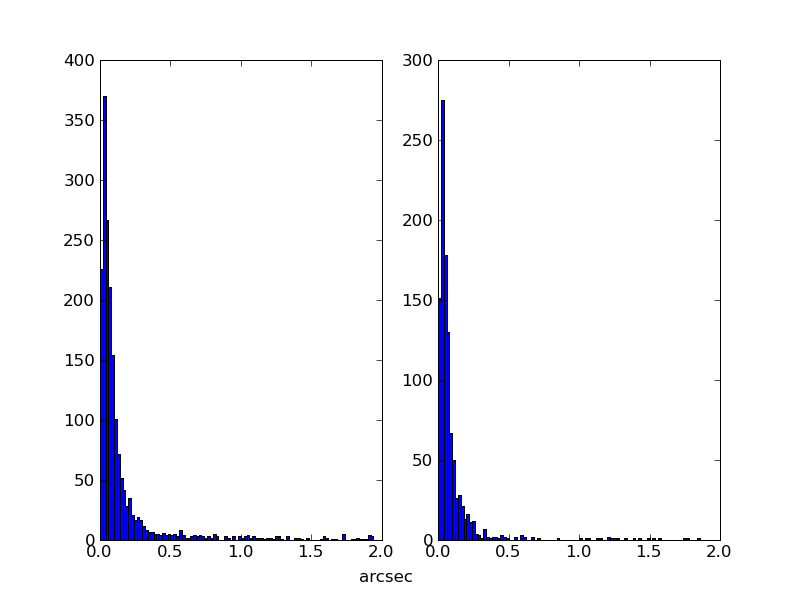
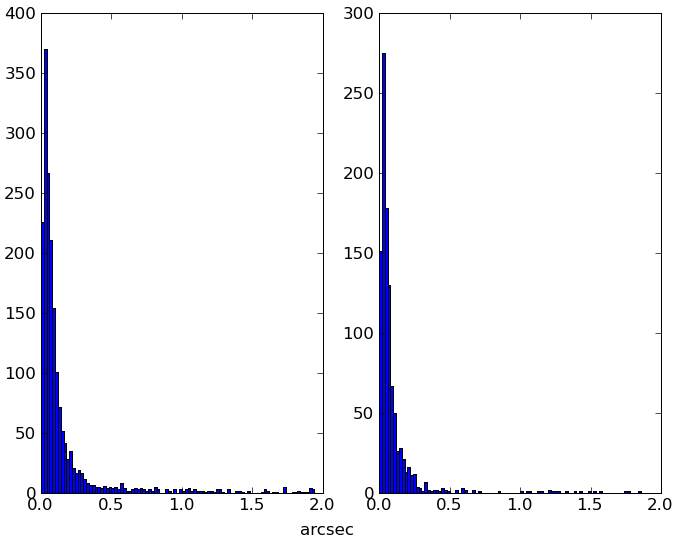
more results text; cropped some figures

diff --git a/results.tex b/results.tex
@@ -50,7 +50,7 @@ event monitor which loaded logging events into the database.
  1 &         &                    sliceInfo & 24 &\stc{FDO}& rawImageAndMetadataOutput1 \\
  2 &         &                      symLink & 25 &*\stc{S} &                       isr1 \\
  3 & \stc{FI}&                  imageInput0 & 26 &*\stc{DI}&            wcsSourcesInput \\
- 4 &*\stc{}  &               visitMetadata0 & 27 &*\stc{S} &           wcsDetermination \\
+ 4 & \stc{DI}&               visitMetadata0 & 27 &*\stc{S} &           wcsDetermination \\
  5 &         &           transformMetadata0 & 28 &*\stc{FO}&  calibratedExposuresOutput \\
  6 &         &            validateMetadata0 & 29 &*\stc{}  &           CcdMetadataStage \\
  7 & \stc{FO}&         visitMetadataOutput0 & 30 &*\stc{FI}&      templateMetadataInput \\
@@ -66,7 +66,7 @@ event monitor which loaded logging events into the database.
 17 &*\stc{S} &             psfDetermination & 40 &*\stc{}  &          sourceToDiaSource \\  
 18 & \stc{FO}&                    psfOutput & 41 &*\stc{S} &       sourceClassification \\
 19 & \stc{FI}&                  imageInput1 & 42 &*\stc{DO}&           diaSourceOutput0 \\
-20 &         &               visitMetadata1 & 43 &*\stc{DO}&           diaSourceOutput1 \\
+20 & \stc{DI}&               visitMetadata1 & 43 &*\stc{DO}&           diaSourceOutput1 \\
 21 &         &           transformMetadata1 & 44 &*\stc{}  &           associationEvent \\
 22 &         &            validateMetadata1 & 45 &*\stc{DO}&                sdqaOutput0 \\
 23 & \stc{FO}&         visitMetadataOutput1 & 46 &*\stc{DO}&                sdqaOutput1 \\
@@ -160,10 +160,7 @@ These Abe runs provided additional qualitative accomplishments:
 \noindent Additional information about the results of these runs on
 Abe can be found in section \ref{sec:timing}.  
 
-Table \ref{tbl:runsummary} summarizes the pertinent production runs
-referenced in this section.
-
-\begin{table}[hp]
+\begin{table}[htbp]
 \centering
 \caption{Summary of Production Runs analyzed in this report
 \label{tbl:runsummary}}
@@ -178,6 +175,9 @@ rlpabe041 & 12      & 288 & 3456/33 GB    & 15/2 GB        & 79368/313 GB \\ \hl
 Total     & ---     & 250 & 13748/81 GB   & 191/28 GB      & 200418/793 GB \\ \hline
 \end{tabular}
 \end{table}
+
+Table \ref{tbl:runsummary} summarizes the pertinent production runs
+referenced in this section.
 
 
 \subsection{Science Data Quality}
@@ -249,19 +249,9 @@ far more significant than is initially apparent, since it
 results from very poor wcs fits that are confined to individual
 amplifiers.
 
-For DC3a purposes, we define WCS failure for an image to occur when
-more than 50\% of the predicted WCS\_Source positions are in error by
-more than 1 arcsec.  This is roughly the level beyond which the difference
-image matching kernels can no longer compensate for image misalignments. With
-this criterion, for run rlp1233 there were 109 failures out of 2629
-images processeed, or 4\%.   For rlp1234 there were 14 failures out
-of 2509 images processed, or 0.5\%.  It must be noted however, that this criterion for WCS failure will
-need to be considerably stricter for DC3b and beyond, because
-processing of image stacks for deep detection and measurement, and the
-determination of astrometric models all require much better WCS quality.
-\begin{figure}[htb]
+\begin{figure}[p]
 \begin{center}
-\includegraphics[width=6in]{images/rlp1233_1234_match.png}
+\includegraphics[height=3.35in]{images/rlp1233_1234_match.png}
 \caption{Histogram of the distances between positions predicted from WCS, and
   true catalog positions for rlp1233/695833-e0 on the left and
   rlp1234/696554-e0 on the right}  
@@ -269,9 +259,9 @@ determination of astrometric models all require much better WCS quality.
 \end{center}
 \end{figure}
 
-\begin{figure}[htb]
+\begin{figure}[p]
 \begin{center}
-\includegraphics[width=6in]{images/rlp1233_ccd1_match.png}
+\includegraphics[height=3.35in]{images/rlp1233_ccd1_match.png}
 \caption{Histogram of the distances between positions predicted from WCS, and
   true catalog positions for rlp1233/695833-e0, showing the individual
 amplifiers from ccd1}  
@@ -279,7 +269,25 @@ amplifiers from ccd1}
 \end{center}
 \end{figure}
 
+For DC3a purposes, we define WCS failure for an image to occur when
+more than 50\% of the predicted WCS\_Source positions are in error by
+more than 1 arcsec.  This is roughly the level beyond which the difference
+image matching kernels can no longer compensate for image misalignments. With
+this criterion, for run rlp1233 there were 109 failures out of 2629
+images processeed, or 4\%.   For rlp1234 there were 14 failures out
+of 2509 images processed, or 0.5\%.  It must be noted however, that
+this criterion for WCS failure will need to be considerably stricter
+for DC3b and beyond, because processing of image stacks for deep
+detection and measurement, and the determination of astrometric models
+all require much better WCS quality.
 
+\begin{figure}[htb]
+\begin{center}
+\includegraphics[width=6in]{images/rlp1233_v695833-e0-c001-mosaic.png}
+\caption{A mosaic of different types of difference images, all from rlp1233/695833-e0-c001}  
+\label{fig:diffim1}
+\end{center}
+\end{figure}
 
 \paragraph{Difference Image Quality}
 
@@ -318,26 +326,18 @@ image quality:
   expected by a large factor, about 20 in this particular case.
 \end{itemize}  
 
-\begin{figure}[htb]
+\begin{figure}[p]
 \begin{center}
-\includegraphics[width=6in]{images/rlp1233_v695833-e0-c001-mosaic.png}
-\caption{A mosaic of different types of difference images, all from rlp1233/695833-e0-c001}  
-\label{fig:diffim1}
-\end{center}
-\end{figure}
-
-\begin{figure}[htb]
-\begin{center}
-\includegraphics[width=6in]{images/rlp1233_v695833-e0-c001-a03-fom_img.png}
+\includegraphics[height=3.25in]{images/rlp1233_v695833-e0-c001-a03-fom_img.png}
 \caption{A figure-of-merit image for
   rlp1233/695833-e0-c001-a03}  
 \label{fig:diffim2}
 \end{center}
 \end{figure}
 
-\begin{figure}[htb]
+\begin{figure}[p]
 \begin{center}
-\includegraphics[width=6in]{images/rlp1233_v695833-e0-c001-a03-fom_plot.png}
+\includegraphics[height=3.25in]{images/rlp1233_v695833-e0-c001-a03-fom_plot.png}
 \caption{Line section through figure-of-merit image for
   rlp1233/695833-e0-c001-a03.  The line is chosen to pass through the
   subtracted bright star at (338,725), which is near the center of the
@@ -366,7 +366,7 @@ available.
 
 \begin{figure}[htb]
 \begin{center}
-\includegraphics[width=6in]{images/rlp1233DiffLCHisto.png}
+\includegraphics[height=3.25in]{images/rlp1233DiffLCHisto.png}
 \caption{Histogram of number of Objects with DIASources in a given number of
   visits in rlp1233}  
 \label{fig:lightcurve1}
@@ -390,7 +390,7 @@ scientific processing.
 \caption{Average Processing Times Per Visit
 \label{tbl:visitstats}}
 \vspace{\baselineskip}
-\begin{tabular}{ l | c | c |}
+\begin{tabular}{ l | c | c }
 \hline\hline
           & Total Processing Time, corrected
           & Application Processing Time \\ 
@@ -405,7 +405,7 @@ ap        & 1.4   $\pm$  0.7 & 0.021 $\pm$  0.7  \\ \hline
 \end{table}
 
 
-In table \ref{tbl:visitstats}, we summarize the statistics for processing
+In Table \ref{tbl:visitstats}, we summarize the statistics for processing
 a single visit through each pipeline.  For each quantity, the error
 given represents the calculated $3\sigma$ variation of the
 distribution of values.  The total time is corrected to remove the
@@ -453,7 +453,7 @@ important impact on the overall performance because the total time
 spent on a stage is driven primarily by the duration of the slice that
 took the longest time.  
 
-Tables \ref{tbl:scistagetimes} through \ref{tbl:otherstagetimes} list
+Tables \ref{tbl:scistagetimes} --- \ref{tbl:otherstagetimes} list
 the average time spent in actual {\it application code} each stage for
 each pipeline.  (That is, these include the time spent in the {\tt
 preprocess()}, {\tt process()}, and {\tt postprocess()} functions
@@ -497,8 +497,8 @@ subtraction on both exposures from a visit.  The variation in the time
 is down considerably as well.  One of the tunable parameters we found
 that can have a significant effect on the subtraction time is the 
 {\tt maxPrincipalComponents} policy parameter, which controls the number
-of principal components calculated for the ... step and which in this
-run was set to 10.  We believe that we can probably reduce this
+of principal components calculated for the ... step and which in these
+runs was set to 10.  We believe that we can probably reduce this
 parameter to 5 without loss in processing fidelity; subsequent tests
 with this value ({\tt rlp1248}) indicate that this would reduce the
 duration of the image subtraction stage by another 20 seconds.
@@ -577,10 +577,51 @@ testing.
 
 Data input and output (I/O) takes on average 46\% of the time spent
 processing a visit in the IPSD pipeline (or 24\% if we discount
-non-essential I/O).  Comparison of the LSST cluster runs ({\tt
-rlp1233} \& {\tt rlp1234}) with the Abe run is revealing, particularly
-when we break it differentiate between file-based I/O and database
-I/O.  
+non-essential I/O).  Comparison of the LSST cluster runs 
+({\tt   rlp1233} \& {\tt rlp1234}) with the Abe run is revealing,
+particularly when we break it differentiate between file-based I/O and
+database I/O.  Table \ref{tbl:diostagetimes} compares the times for
+database I/O stages.  We can understand these numbers by recalling
+that the database server ran on all cases on the development cluster;
+in particular when running on Abe, the database was no longer
+``local'' to the cluster.  In all but two of the stages, Abe paid a
+10-second penalty, suggestive of network latencies.  The two stages
+that apparently did not pay this penalty were stages that also
+included file-based I/O; it's unclear why these stages were not
+affected.  Overall, these results for database I/O could bear more
+experiments because we cannot yet tell what
+the contribution to the time comes from having nine times the number
+of simultaneous database clients.  (Note that no special parallelizing
+of database access was in place.)
+
+\begin{table}[hbtp]
+\begin{center}
+\caption{IPSD Database I/O Stages: Average Processing Times (s) Per Stage
+\label{tbl:diostagetimes}}
+\small
+\vspace{\baselineskip}
+\begin{tabular}{llcrrc|crr}
+\hline\hline
+   &      && \multicolumn{2}{c}{{\tt rlp1233} \& {\tt rlp1234}} 
+         &&& \multicolumn{2}{c}{{\tt rlpabe041}} \\
+\# & Name && \multicolumn{1}{c}{average}&\multicolumn{1}{c}{$3\sigma$} 
+         &&& \multicolumn{1}{c}{average}&\multicolumn{1}{c}{$3\sigma$} \\ 
+\hline
+ 4 &                 visitMetadata0 &&  0.076 &  0.975 &&&  9.640 &  3.985 \\
+ 8 &  rawImageAndMetadataOutput0$^*$&&  1.999 &  0.374 &&&  0.629 &  0.790 \\
+16 & exposureAndWcsSourcesOutput$^*$&&  0.228 &  0.245 &&& 11.075 & 10.217 \\
+20 &                 visitMetadata1 &&  0.038 &  0.033 &&& 10.039 &  0.004 \\
+24 &  rawImageAndMetadataOutput1$^*$&&  2.126 &  0.553 &&&  0.910 &  1.317 \\
+26 &                wcsSourcesInput &&  0.034 &  0.029 &&& 10.045 &  0.034 \\
+42 &               diaSourceOutput0 &&  1.947 &  4.220 &&& 10.210 &  0.232 \\
+43 &               diaSourceOutput1 &&  0.106 &  0.143 &&& 10.206 &  0.182 \\
+45 &                    sdqaOutput0 &&  0.047 &  0.015 &&& 10.056 &  0.012 \\
+46 &                    sdqaOutput1 &&  0.028 &  0.010 &&& 10.050 &  0.170 \\
+\hline
+\multicolumn{9}{l}{$^*$includes both database and file-based I/O}
+\end{tabular}
+\end{center}
+\end{table}
 
 \begin{table}[htbp]
 \begin{center}
@@ -616,32 +657,33 @@ I/O.
 \end{center}
 \end{table}
 
-\begin{table}[hbtp]
-\begin{center}
-\caption{IPSD Database I/O Stages: Average Processing Times (s) Per Stage
-\label{tbl:diostagetimes}}
-\small
-\vspace{\baselineskip}
-\begin{tabular}{llcrrc|crr}
-\hline\hline
-   &      && \multicolumn{2}{c}{{\tt rlp1233} \& {\tt rlp1234}} 
-         &&& \multicolumn{2}{c}{{\tt rlpabe041}} \\
-\# & Name && \multicolumn{1}{c}{average}&\multicolumn{1}{c}{$3\sigma$} 
-         &&& \multicolumn{1}{c}{average}&\multicolumn{1}{c}{$3\sigma$} \\ 
-\hline
- 8 &  rawImageAndMetadataOutput0$^*$&&  1.999 &  0.374 &&&  0.629 &  0.790 \\
-16 & exposureAndWcsSourcesOutput$^*$&&  0.228 &  0.245 &&& 11.075 & 10.217 \\
-24 &  rawImageAndMetadataOutput1$^*$&&  2.126 &  0.553 &&&  0.910 &  1.317 \\
-26 &                wcsSourcesInput &&  0.034 &  0.029 &&& 10.045 &  0.034 \\
-42 &               diaSourceOutput0 &&  1.947 &  4.220 &&& 10.210 &  0.232 \\
-43 &               diaSourceOutput1 &&  0.106 &  0.143 &&& 10.206 &  0.182 \\
-45 &                    sdqaOutput0 &&  0.047 &  0.015 &&& 10.056 &  0.012 \\
-46 &                    sdqaOutput1 &&  0.028 &  0.010 &&& 10.050 &  0.170 \\
-\hline
-\multicolumn{9}{l}{$^*$includes both database and file-based I/O}
-\end{tabular}
-\end{center}
-\end{table}
+Table \ref{tbl:fiostagetimes} presents the comparison
+for the stages involved in file-based I/O; three of these stages
+involve both also do database I/O.  Note that due to the problems we
+encountered using the Lustre parallel filesystem on the development
+cluster, the smaller runs were done using NFS.  This filesystem is
+known to perform poorly under most conditions, and our results bear
+this out.  On the other hand, the file-based I/O performance of the
+Lustre filesystem on Abe performed very well, reading 9 times more
+data in the same or less time for all but two of the stages listed in
+Table \ref{tbl:fiostagetimes}.  
+
+One of the exceptions, stage 16, is one of the three that also
+involved in database I/O.  As discussed above, the Abe performance
+is suggestive of the the I/O being dominated by the database
+component.  The other exception is stage 33 in which all the parallel
+processes had to read the same template image at the same time; in
+this stage, redundantly reading 9 times the data took twice as long.
+This is in contrast with all of the other file I/O stages where each
+process read in or wrote out a \textit{different} file.  
+
+For completeness, we also present the timings for the remaining
+stages in Table \ref{tbl:miscstagetimes}.  The handle neither science
+processing nor I/O but rather carry out small book-keeping tasks.
+They all take a short time and half of them are not expected to have
+counterparts in the production pipelines.   We also show the timing
+results for the stages that make up the NightMOPS and Association
+pipelines in Table \ref{tbl:otherstagetimes}.  
 
 \begin{table}[htbp]
 \begin{center}
@@ -658,12 +700,10 @@ I/O.
 \hline
  1 &                     sliceInfo &&  0.002 &  0.001 &&&  0.001 &  0.002 \\
  2 &                       symLink &&  0.001 &  0.001 &&&  0.001 &  0.002 \\
- 4 &                visitMetadata0 &&  0.076 &  0.975 &&&  9.640 &  3.985 \\
  5 &            transformMetadata0 &&  0.013 &  0.007 &&&  0.024 &  0.122 \\
  6 &             validateMetadata0 &&  0.002 &  0.001 &&&  0.002 &  0.003 \\
  9 &   identifyCalibrationProducts &&  0.020 &  0.008 &&&  0.024 &  0.036 \\
 11 &  transformCalibrationMetadata &&  0.004 &  0.003 &&&  0.004 &  0.004 \\
-20 &                visitMetadata1 &&  0.038 &  0.033 &&& 10.039 &  0.004 \\
 21 &            transformMetadata1 &&  0.013 &  0.005 &&&  0.011 &  0.007 \\
 22 &             validateMetadata1 &&  0.002 &  0.002 &&&  0.001 &  0.001 \\
 29 &              CcdMetadataStage &&  0.002 &  0.001 &&&  0.003 &  0.024 \\
@@ -705,10 +745,6 @@ I/O.
 \end{tabular}
 \end{center}
 \end{table}
-
-
-
-
 Finally, we also examined the time spent by the pipeline harness
 framework to manage and execute the stages repeatedly and in
 sequence, what we refer to as the pipeline overhead.  One way to
